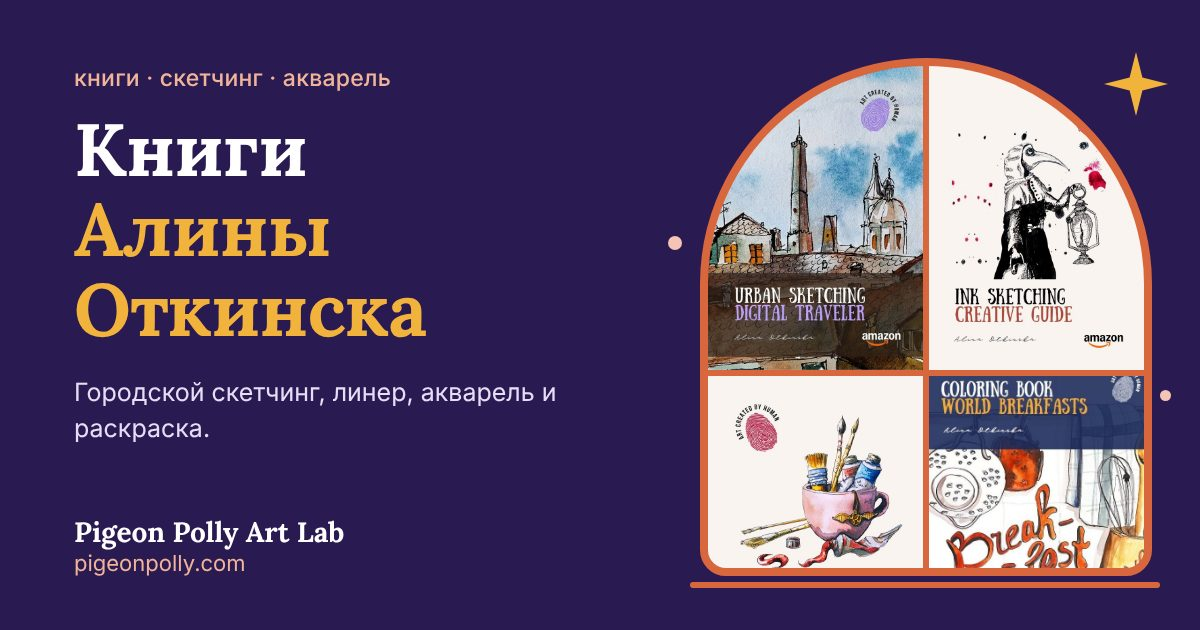
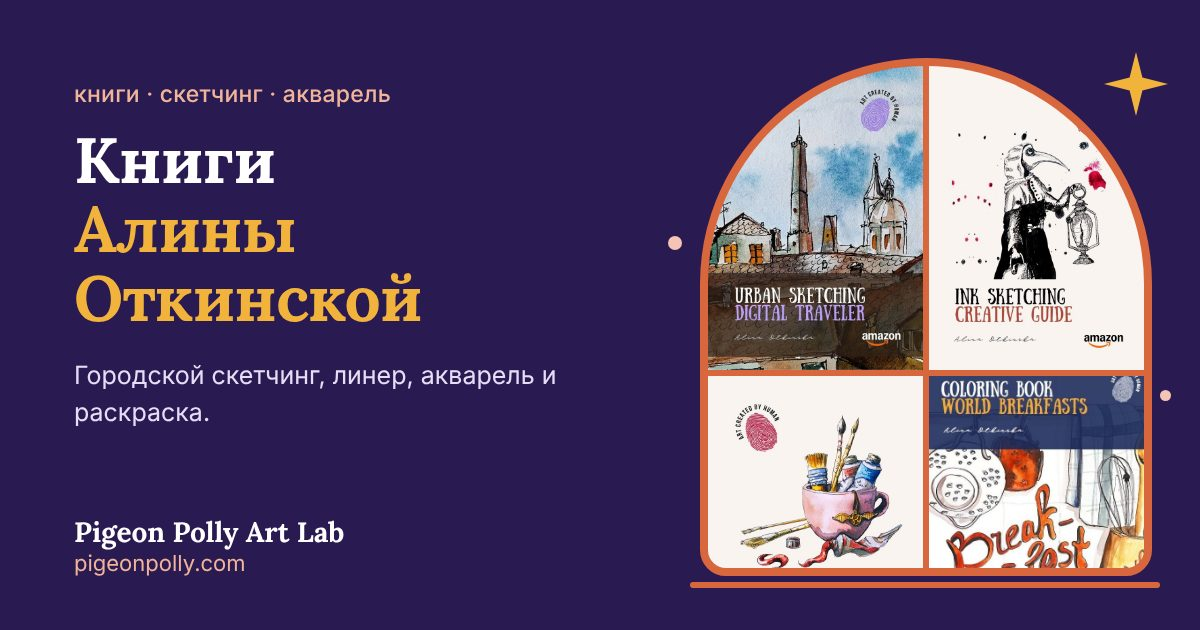
Откинска: в косвенных падежах — Откинской
Claude-Session: https://claude.ai/code/session_01EK65DGJ9XxMWo9GTYAfJHE

Changed region(s): [[0.0617, 0.0905, 0.37, 0.5429], [0.0617, 0.573, 0.4625, 0.6937]]

diff --git a/site/ru/e-books/index.html b/site/ru/e-books/index.html
@@ -4,11 +4,11 @@
 <meta charset="utf-8">
 <meta name="viewport" content="width=device-width, initial-scale=1">
 <title>Книги · Pigeon Polly Art Lab</title>
-<meta name="description" content="Книги Алины Откинска о рисовании и творчестве.">
+<meta name="description" content="Книги Алины Откинской о рисовании и творчестве.">
 <link rel="canonical" href="https://www.pigeonpolly.com/ru/e-books/">
 <link rel="alternate" hreflang="en" href="https://www.pigeonpolly.com/e-books/"><link rel="alternate" hreflang="lv" href="https://www.pigeonpolly.com/lv/e-books/"><link rel="alternate" hreflang="ru" href="https://www.pigeonpolly.com/ru/e-books/"><link rel="alternate" hreflang="x-default" href="https://www.pigeonpolly.com/e-books/">
 <meta property="og:title" content="Книги · Pigeon Polly Art Lab">
-<meta property="og:description" content="Книги Алины Откинска о рисовании и творчестве.">
+<meta property="og:description" content="Книги Алины Откинской о рисовании и творчестве.">
 <meta property="og:type" content="website">
 <meta property="og:url" content="https://www.pigeonpolly.com/ru/e-books/">
 <meta property="og:site_name" content="Pigeon Polly Art Lab">
@@ -17,7 +17,7 @@
 <meta property="og:image" content="https://www.pigeonpolly.com/assets/og/books-ru.jpg">
 <meta property="og:image:width" content="1200">
 <meta property="og:image:height" content="630">
-<meta property="og:image:alt" content="Книги Алины Откинска. Городской скетчинг, линер, акварель и раскраска.">
+<meta property="og:image:alt" content="Книги Алины Откинской. Городской скетчинг, линер, акварель и раскраска.">
 <meta name="twitter:card" content="summary_large_image">
 <meta name="twitter:image" content="https://www.pigeonpolly.com/assets/og/books-ru.jpg">
 <script type="application/ld+json">{"@context": "https://schema.org", "@type": "Person", "name": "Alina Otkinska", "url": "https://www.pigeonpolly.com/", "image": "https://www.pigeonpolly.com/assets/og-image.jpg", "jobTitle": "Learning Experience Designer & Illustrator", "worksFor": {"@type": "Organization", "name": "Transport and Telecommunication Institute (TSI)"}, "alumniOf": [{"@type": "CollegeOrUniversity", "name": "University of Latvia"}], "knowsAbout": ["Learning design", "EdTech", "AI в образовании", "Moodle", "Watercolor", "Illustration"], "sameAs": ["https://lv.linkedin.com/in/otkinska", "https://www.instagram.com/pigeonpolly", "https://www.tiktok.com/@pigeonpolly", "https://www.patreon.com/cw/pigeon_polly", "https://www.pinterest.com/pigeonpollyart/"]}</script>

diff --git a/worker/blog.js b/worker/blog.js
@@ -24,7 +24,7 @@ const T = {
     tags: 'Теги', moreTags: 'Показать все теги', lessTags: 'Свернуть', popular: 'Популярное', all: 'Все статьи', empty: 'Здесь пока нет статей. Первая уже в пути!',
     comments: 'Комментарии', noComments: 'Комментариев пока нет. Будьте первым!', back: '← Все статьи', tagged: 'Статьи с тегом',
     min: 'мин чтения', share: 'Поделиться', copy: 'Скопировать ссылку', copied: 'Ссылка скопирована ✓', email: 'Почта', draft: 'Черновик', read: 'Читать →', months: ['янв', 'фев', 'мар', 'апр', 'мая', 'июн', 'июл', 'авг', 'сен', 'окт', 'ноя', 'дек'],
-    descr: 'Заметки о рисовании, обучении и творчестве от Алины Откинска и голубя Полли.',
+    descr: 'Заметки о рисовании, обучении и творчестве от Алины Откинской и голубя Полли.',
     featured: '★ Избранное', archive: 'Архив', inMonth: 'Статьи за', onlyFav: 'Мои избранные статьи', allSections: 'Все', search: 'Поиск по блогу…', searchBtn: 'Найти', found: 'Результаты поиска', nothing: 'Ничего не нашлось. Попробуйте другое слово.', prev: '← Новее', next: 'Старше →', section: 'Раздел', sections: 'Разделы', scheduled: '⏰ Запланирована', browse: 'Разделы, теги и архив', count: n => `В блоге ${n} ${n % 10 === 1 && n % 100 !== 11 ? 'статья' : [2, 3, 4].includes(n % 10) && ![12, 13, 14].includes(n % 100) ? 'статьи' : 'статей'}`,
     monthsFull: ['январь', 'февраль', 'март', 'апрель', 'май', 'июнь', 'июль', 'август', 'сентябрь', 'октябрь', 'ноябрь', 'декабрь'],
   },

diff --git a/site/ru/work-with-me/index.html b/site/ru/work-with-me/index.html
@@ -4,11 +4,11 @@
 <meta charset="utf-8">
 <meta name="viewport" content="width=device-width, initial-scale=1">
 <title>Сотрудничество · Pigeon Polly Art Lab</title>
-<meta name="description" content="Дизайн обучения, ИИ в образовании и мастер-классы по скетчингу с Алиной Откинска.">
+<meta name="description" content="Дизайн обучения, ИИ в образовании и мастер-классы по скетчингу с Алиной Откинской.">
 <link rel="canonical" href="https://www.pigeonpolly.com/ru/work-with-me/">
 <link rel="alternate" hreflang="en" href="https://www.pigeonpolly.com/work-with-me/"><link rel="alternate" hreflang="lv" href="https://www.pigeonpolly.com/lv/work-with-me/"><link rel="alternate" hreflang="ru" href="https://www.pigeonpolly.com/ru/work-with-me/"><link rel="alternate" hreflang="x-default" href="https://www.pigeonpolly.com/work-with-me/">
 <meta property="og:title" content="Сотрудничество · Pigeon Polly Art Lab">
-<meta property="og:description" content="Дизайн обучения, ИИ в образовании и мастер-классы по скетчингу с Алиной Откинска.">
+<meta property="og:description" content="Дизайн обучения, ИИ в образовании и мастер-классы по скетчингу с Алиной Откинской.">
 <meta property="og:type" content="website">
 <meta property="og:url" content="https://www.pigeonpolly.com/ru/work-with-me/">
 <meta property="og:site_name" content="Pigeon Polly Art Lab">

diff --git a/site/ru/art-portfolio/index.html b/site/ru/art-portfolio/index.html
@@ -4,11 +4,11 @@
 <meta charset="utf-8">
 <meta name="viewport" content="width=device-width, initial-scale=1">
 <title>Мой скетчбук · Pigeon Polly Art Lab</title>
-<meta name="description" content="Портфолио Алины Откинска: серии эколайнами, страницы скетчбука и ИИ-арт.">
+<meta name="description" content="Портфолио Алины Откинской: серии эколайнами, страницы скетчбука и ИИ-арт.">
 <link rel="canonical" href="https://www.pigeonpolly.com/ru/art-portfolio/">
 <link rel="alternate" hreflang="en" href="https://www.pigeonpolly.com/art-portfolio/"><link rel="alternate" hreflang="lv" href="https://www.pigeonpolly.com/lv/art-portfolio/"><link rel="alternate" hreflang="ru" href="https://www.pigeonpolly.com/ru/art-portfolio/"><link rel="alternate" hreflang="x-default" href="https://www.pigeonpolly.com/art-portfolio/">
 <meta property="og:title" content="Мой скетчбук · Pigeon Polly Art Lab">
-<meta property="og:description" content="Портфолио Алины Откинска: серии эколайнами, страницы скетчбука и ИИ-арт.">
+<meta property="og:description" content="Портфолио Алины Откинской: серии эколайнами, страницы скетчбука и ИИ-арт.">
 <meta property="og:type" content="website">
 <meta property="og:url" content="https://www.pigeonpolly.com/ru/art-portfolio/">
 <meta property="og:site_name" content="Pigeon Polly Art Lab">

diff --git a/site/ru/projects/index.html b/site/ru/projects/index.html
@@ -4,11 +4,11 @@
 <meta charset="utf-8">
 <meta name="viewport" content="width=device-width, initial-scale=1">
 <title>Обучение и ИИ · Pigeon Polly Art Lab</title>
-<meta name="description" content="Проекты Алины Откинска: дизайн обучения, EdTech и автоматизация с ИИ.">
+<meta name="description" content="Проекты Алины Откинской: дизайн обучения, EdTech и автоматизация с ИИ.">
 <link rel="canonical" href="https://www.pigeonpolly.com/ru/projects/">
 <link rel="alternate" hreflang="en" href="https://www.pigeonpolly.com/projects/"><link rel="alternate" hreflang="lv" href="https://www.pigeonpolly.com/lv/projects/"><link rel="alternate" hreflang="ru" href="https://www.pigeonpolly.com/ru/projects/"><link rel="alternate" hreflang="x-default" href="https://www.pigeonpolly.com/projects/">
 <meta property="og:title" content="Обучение и ИИ · Pigeon Polly Art Lab">
-<meta property="og:description" content="Проекты Алины Откинска: дизайн обучения, EdTech и автоматизация с ИИ.">
+<meta property="og:description" content="Проекты Алины Откинской: дизайн обучения, EdTech и автоматизация с ИИ.">
 <meta property="og:type" content="website">
 <meta property="og:url" content="https://www.pigeonpolly.com/ru/projects/">
 <meta property="og:site_name" content="Pigeon Polly Art Lab">

diff --git a/site/ru/blog/index.html b/site/ru/blog/index.html
@@ -4,11 +4,11 @@
 <meta charset="utf-8">
 <meta name="viewport" content="width=device-width, initial-scale=1">
 <title>Блог · Pigeon Polly Art Lab</title>
-<meta name="description" content="Заметки о рисовании, обучении и творчестве от Алины Откинска и Pigeon Polly.">
+<meta name="description" content="Заметки о рисовании, обучении и творчестве от Алины Откинской и Pigeon Polly.">
 <link rel="canonical" href="https://www.pigeonpolly.com/ru/blog/">
 <link rel="alternate" hreflang="en" href="https://www.pigeonpolly.com/blog/"><link rel="alternate" hreflang="lv" href="https://www.pigeonpolly.com/lv/blog/"><link rel="alternate" hreflang="ru" href="https://www.pigeonpolly.com/ru/blog/"><link rel="alternate" hreflang="x-default" href="https://www.pigeonpolly.com/blog/">
 <meta property="og:title" content="Блог · Pigeon Polly Art Lab">
-<meta property="og:description" content="Заметки о рисовании, обучении и творчестве от Алины Откинска и Pigeon Polly.">
+<meta property="og:description" content="Заметки о рисовании, обучении и творчестве от Алины Откинской и Pigeon Polly.">
 <meta property="og:type" content="website">
 <meta property="og:url" content="https://www.pigeonpolly.com/ru/blog/">
 <meta property="og:site_name" content="Pigeon Polly Art Lab">

diff --git a/site/ru/art-portfolio/anxiety/index.html b/site/ru/art-portfolio/anxiety/index.html
@@ -17,7 +17,7 @@
 <meta property="og:image" content="https://www.pigeonpolly.com/assets/og/anxiety-ru.jpg">
 <meta property="og:image:width" content="1200">
 <meta property="og:image:height" content="630">
-<meta property="og:image:alt" content="Тревога. Серия рисунков эколайнами Алины Откинска.">
+<meta property="og:image:alt" content="Тревога. Серия рисунков эколайнами Алины Откинской.">
 <meta name="twitter:card" content="summary_large_image">
 <meta name="twitter:image" content="https://www.pigeonpolly.com/assets/og/anxiety-ru.jpg">
 <script type="application/ld+json">{"@context": "https://schema.org", "@type": "Person", "name": "Alina Otkinska", "url": "https://www.pigeonpolly.com/", "image": "https://www.pigeonpolly.com/assets/og-image.jpg", "jobTitle": "Learning Experience Designer & Illustrator", "worksFor": {"@type": "Organization", "name": "Transport and Telecommunication Institute (TSI)"}, "alumniOf": [{"@type": "CollegeOrUniversity", "name": "University of Latvia"}], "knowsAbout": ["Learning design", "EdTech", "AI в образовании", "Moodle", "Watercolor", "Illustration"], "sameAs": ["https://lv.linkedin.com/in/otkinska", "https://www.instagram.com/pigeonpolly", "https://www.tiktok.com/@pigeonpolly", "https://www.patreon.com/cw/pigeon_polly", "https://www.pinterest.com/pigeonpollyart/"]}</script>

diff --git a/tools/og_cards.py b/tools/og_cards.py
@@ -79,7 +79,7 @@ CARDS = {
         "lv": ["vienkāršas formas · idejas", "Pollija,", "palīdzi uzzīmēt", "Kā uzzīmēt jebko no vienkāršām formām un kur atrast idejas."]}),
     "books": dict(img=["images/e-books/urban-sketching-digital-traveler.jpg", "images/e-books/ink-sketching.jpg", "images/e-books/watercolor-sketches.jpg", "images/e-books/coloring-book-world-breakfasts.jpg"], view="grid", t={
         "en": ["e-books · sketching · watercolor", "Books by", "Alina Otkinska", "Urban sketching, ink, watercolor and a colouring book."],
-        "ru": ["книги · скетчинг · акварель", "Книги", "Алины Откинска", "Городской скетчинг, линер, акварель и раскраска."],
+        "ru": ["книги · скетчинг · акварель", "Книги", "Алины Откинской", "Городской скетчинг, линер, акварель и раскраска."],
         "lv": ["e-grāmatas · skicēšana · akvarelis", "Alīnas Otkinskas", "grāmatas", "Pilsētas skicēšana, tinte, akvarelis un krāsojamā grāmata."]}),
     "about": dict(img="images/home/alina.jpg", t={
         "en": ["artist · illustrator · learning designer", "Alina", "Otkinska", "Author of Pigeon Polly. Art, books and learning design from Riga."],
@@ -103,7 +103,7 @@ CARDS = {
         "lv": ["ekolaini · skiču burtnīca · MI māksla", "Mana", "skiču burtnīca", "Tēlu sērijas, skiču burtnīcas lapas un eksperimenti."]}),
     "anxiety": dict(img="images/anxiety/anxiety-4.jpg", pos="50% 15%", zoom=1.3, t={
         "en": ["a series in ecolines", "Anxiety", "", "A series of drawings in ecolines by Alina Otkinska."],
-        "ru": ["серия эколайнами", "Тревога", "", "Серия рисунков эколайнами Алины Откинска."],
+        "ru": ["серия эколайнами", "Тревога", "", "Серия рисунков эколайнами Алины Откинской."],
         "lv": ["sērija ar ekolainiem", "Trauksme", "", "Alīnas Otkinskas zīmējumu sērija ar ekolainiem."]}),
     "snail": dict(img="images/snail/2023-mr-chew-coffee-passion.jpg", t={
         "en": ["illustrations 2023–2025", "Mr.Chew", "the snail", "An Australian postal snail and his small adventures."],

diff --git a/docs/plan-status.md b/docs/plan-status.md
@@ -77,7 +77,7 @@
 - Названия этапов 5–15 — вписать, когда придут их блоки.
 
 ## Решения Алины
-- Фамилия по-русски — «Откинска», не склоняется (не «Откинская/Откинской»).
+- Фамилия по-русски — «Алина Откинска» (не «Откинская»); в косвенных падежах — «Откинской» (книги Алины Откинской, с Алиной Откинской).
 - Этап 12: писем нет и ключей не будет — забытый пароль только через «Написать Алине» — её адрес lina.otkinska@gmail.com виден в «Забыли пароль?», кнопка открывает письмо с темой и ником (`ALINA_MAIL` в account.js) и кабинет → Птицы → «🔑 Сбросить пароль»; птичка сама меняет пароль в профиле («🔑 Сменить пароль»). Resend не подключать.
 - Этап 10-1: при генерации дел всегда делать вещи-награды и всё, что с ними связано (docs/titos.md «Вещи-награды за дела»), даже если в задании не сказано.
 - Этап 8: жители для дел 3+ — из персонажей коллекционных карточек (кроме вариаций Полли и Мистера Чу), поселить и показать на карте; слить в main.
